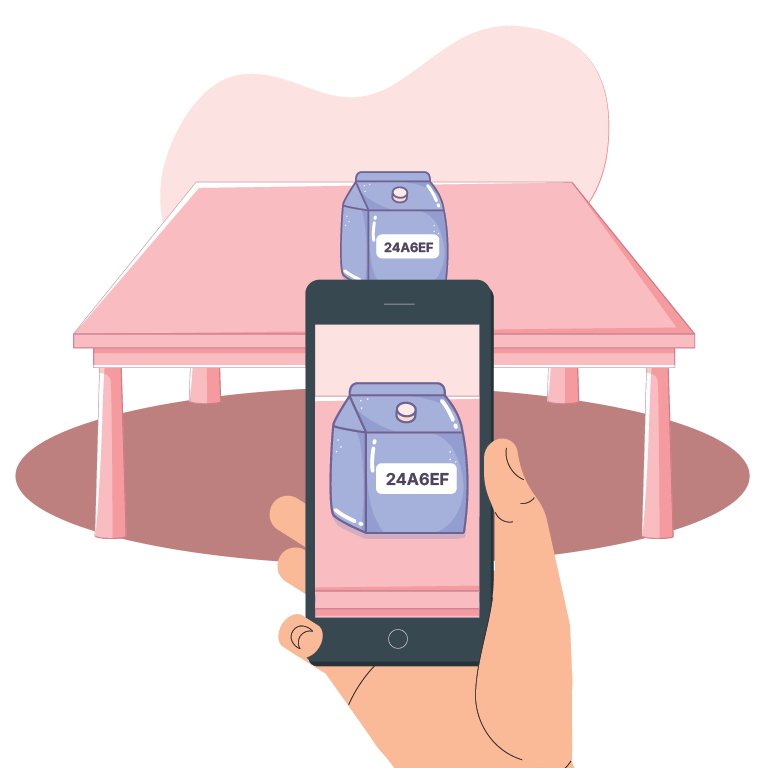
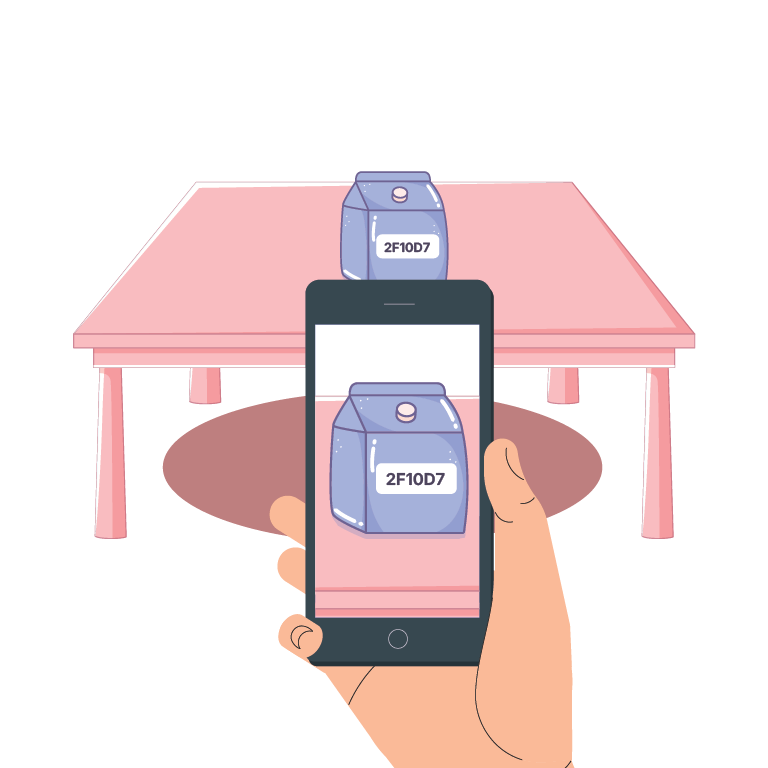
feat: add new images for milk bag verification tutorial and update asset constants

diff --git a/apps/mobile/components/forms/donation-request/MilkBagVerification.tsx b/apps/mobile/components/forms/donation-request/MilkBagVerification.tsx
@@ -21,7 +21,7 @@ import { File } from 'expo-file-system';
 import * as ImagePicker from 'expo-image-picker';
 
 import { CameraIcon, ImageIcon } from 'lucide-react-native';
-import React, { useEffect, useState } from 'react';
+import React, { useCallback, useEffect, useState } from 'react';
 import { useWatch } from 'react-hook-form';
 import { toast } from 'sonner-native';
 
@@ -75,20 +75,27 @@ function MilkBagCard({ data, onImageCapture, ...props }: MilkBagCardProps) {
   const imageUrl = bagImage?.url;
   const imageAlt = bagImage?.alt || 'Milk Bag Image';
 
+  const deletePrev = useCallback(async () => {
+    try {
+      if (capturedImage) {
+        const file = new File(capturedImage.url);
+        file.delete();
+      }
+    } catch (error) {
+      console.warn('Failed to delete local file:', extractErrorMessage(error));
+    }
+  }, [capturedImage]);
+
   useEffect(() => {
     setCapturedImage(data.bagImage);
-    if (!data.bagImage) {
-      deletePrev();
-    }
-    // eslint-disable-next-line react-hooks/exhaustive-deps
-  }, [data.bagImage]);
+    if (!data.bagImage) deletePrev();
+  }, [data.bagImage, deletePrev]);
 
   useEffect(() => {
     return () => {
       deletePrev();
     };
-    // eslint-disable-next-line react-hooks/exhaustive-deps
-  }, []);
+  }, [deletePrev]);
 
   async function handleChange(rawImage: ImagePicker.ImagePickerAsset | null) {
     if (!rawImage) return;
@@ -130,22 +137,11 @@ function MilkBagCard({ data, onImageCapture, ...props }: MilkBagCardProps) {
     }
   }
 
-  async function deletePrev() {
-    try {
-      if (capturedImage) {
-        const file = new File(capturedImage.url);
-        file.delete();
-      }
-    } catch (error) {
-      console.warn('Failed to delete local file:', extractErrorMessage(error));
-    }
-  }
-
   return (
     <Card {...props} style={{ maxWidth: 320 }}>
       <VStack space="md" className="items-stretch">
         <Box
-          className="bg-primary-0 relative w-full overflow-hidden rounded-xl"
+          className="relative w-full overflow-hidden rounded-xl bg-primary-0"
           style={{ aspectRatio: 1.5 }}
         >
           {imageUrl ? (
@@ -163,7 +159,7 @@ function MilkBagCard({ data, onImageCapture, ...props }: MilkBagCardProps) {
 
           <VStack className="absolute inset-x-0 bottom-0 items-start justify-between px-4 py-2">
             <Text className="font-JakartaSemiBold">{volume} mL</Text>
-            <Text size="sm" className="text-typography-800 font-JakartaMedium">
+            <Text size="sm" className="font-JakartaMedium text-typography-800">
               {formatDate(collectedAt, { shortMonth: true })}, {formatLocaleTime(collectedAt)}
             </Text>
           </VStack>
@@ -190,11 +186,11 @@ function MilkBagCard({ data, onImageCapture, ...props }: MilkBagCardProps) {
         <ModalContent>
           <ModalBody className="my-auto">
             <VStack space="lg">
-              <Button variant="outline" onPress={handleCapture}>
+              <Button onPress={handleCapture}>
                 <ButtonIcon as={CameraIcon} />
                 <ButtonText>Open Camera</ButtonText>
               </Button>
-              <Button onPress={handleUpload}>
+              <Button variant="outline" onPress={handleUpload}>
                 <ButtonIcon as={ImageIcon} />
                 <ButtonText>Choose from library</ButtonText>
               </Button>

diff --git a/apps/mobile/components/tutorials/MilkBagVerification.tsx b/apps/mobile/components/tutorials/MilkBagVerification.tsx
@@ -1,62 +1,50 @@
+import { getImageAsset } from '@/lib/stores';
+import { Asset } from 'expo-asset';
 import React from 'react';
 import { Image } from '../Image';
 import { Text } from '../ui/text';
 import { VStack } from '../ui/vstack';
 
+const steps: { title: string; description: string; image: Asset | null }[] = [
+  {
+    title: 'Review the Generated Code',
+    description: 'Each milk bag has a unique 6-digit code. Check the code shown for each bag.',
+    image: getImageAsset('bagVerification'),
+  },
+  {
+    title: 'Label Each Milk Bag',
+    description: 'Write the code on the bag with a permanent marker or attach a sticker.',
+    image: getImageAsset('writeCode'),
+  },
+  {
+    title: 'Take a Photo',
+    description: 'Capture a clear photo of each bag with its code visible.',
+    image: getImageAsset('captureBagPhoto'),
+  },
+];
+
 export default function MilkBagVerificationTutorial() {
   return (
-    <VStack space="xl" className="flex-1 items-stretch p-5">
-      <Text className="text-center">
+    <VStack space="2xl" className="flex-1 items-stretch p-5">
+      <Text className="mb-4 text-center">
         Follow these steps to verify your milk bags and ensure safe tracking.
       </Text>
 
-      {/* Step 1 */}
-      <VStack space="md">
-        <Image
-          source={null}
-          className="bg-background-300 rounded-2xl"
-          style={{ width: '90%', aspectRatio: 1.75 }}
-          contentFit="contain"
-        />
-        <Text size="lg" className="font-JakartaMedium">
-          1. Review the Generated Code
-        </Text>
-        <Text className="text-typography-800">
-          Each milk bag has a unique 6-digit code. Check the code shown for each bag.
-        </Text>
-      </VStack>
-
-      {/* Step 2 */}
-      <VStack space="md">
-        <Image
-          source={null}
-          className="bg-background-300 rounded-2xl"
-          style={{ width: '90%', aspectRatio: 1.75 }}
-          contentFit="contain"
-        />
-        <Text size="lg" className="font-JakartaMedium">
-          2. Label Each Milk Bag
-        </Text>
-        <Text className="text-typography-800">
-          Write the code on the bag with a permanent marker or attach a sticker.
-        </Text>
-      </VStack>
-
-      {/* Step 3 */}
-      <VStack space="md">
-        <Image
-          source={null}
-          className="bg-background-300 rounded-2xl"
-          style={{ width: '90%', aspectRatio: 1.75 }}
-          contentFit="contain"
-        />
-        <Text size="lg" className="font-JakartaMedium">
-          3. Take a Photo
-        </Text>
-        <Text className="text-typography-800">
-          Capture a clear photo of each bag with its code visible.
-        </Text>
-      </VStack>
+      {steps.map((step, index) => (
+        <VStack key={index} space="md">
+          <Image
+            source={step.image}
+            alt="Tutorial Image"
+            className="rounded-2xl bg-background-300"
+            style={{ width: '90%', aspectRatio: 1.75, alignSelf: 'center' }}
+            contentFit="contain"
+          />
+          <Text size="lg" className="font-JakartaMedium">
+            {index + 1}. {step.title}
+          </Text>
+          <Text className="mb-2 text-typography-800">{step.description}</Text>
+        </VStack>
+      ))}
     </VStack>
   );
 }

diff --git a/apps/mobile/features/profile/components/profile-screen/ProfileCTA.tsx b/apps/mobile/features/profile/components/profile-screen/ProfileCTA.tsx
@@ -1,6 +1,7 @@
+import DonateMilkIcon from '@/components/icons/DonateMilkIcon';
+import MilkBottlePlusIcon from '@/components/icons/MilkBottlePlusIcon';
 import { Button, ButtonIcon, ButtonText } from '@/components/ui/button';
 import { HStack } from '@/components/ui/hstack';
-import { HandBottleIcon, MilkBottlePlus2Icon } from '@/components/ui/icon/custom';
 import { RecipientSearchParams } from '@/lib/types/donationRequest';
 import { UserProfile } from '@lactalink/types';
 import { extractID } from '@lactalink/utilities/extractors';
@@ -22,13 +23,13 @@ export default function ProfileCTA({ profile }: ProfileCTAProps) {
     <HStack space="lg" className="w-full items-stretch">
       <Link asChild push href={{ pathname: `/donations/create`, params }}>
         <Button className="flex-1">
-          <ButtonIcon size="xl" as={HandBottleIcon} style={{ width: 24, height: 24 }} />
+          <ButtonIcon as={DonateMilkIcon} className="fill-primary-0" />
           <ButtonText>Donate</ButtonText>
         </Button>
       </Link>
       <Link asChild push href={{ pathname: `/requests/create`, params }}>
         <Button action="tertiary" className="flex-1">
-          <ButtonIcon size="xl" as={MilkBottlePlus2Icon} style={{ width: 24, height: 24 }} />
+          <ButtonIcon as={MilkBottlePlusIcon} className="fill-tertiary-0" />
           <ButtonText>Request</ButtonText>
         </Button>
       </Link>

diff --git a/apps/mobile/lib/constants/assets.ts b/apps/mobile/lib/constants/assets.ts
@@ -61,6 +61,9 @@ export const IMAGE_ASSETS = {
   'idVerification_0.75x': require('../../assets/images/0.75x/verify_identity.png'),
   emailReceived: require('../../assets/images/1x/email_received.png'),
   'emailReceived_0.75x': require('../../assets/images/0.75x/email_received.png'),
+  bagVerification: require('../../assets/images/1x/screenshot_bag_verification.png'),
+  captureBagPhoto: require('../../assets/images/1x/milkbag_capture.png'),
+  writeCode: require('../../assets/images/1x/write_code.png'),
 };
 
 export const LOGO_ASSETS = {
